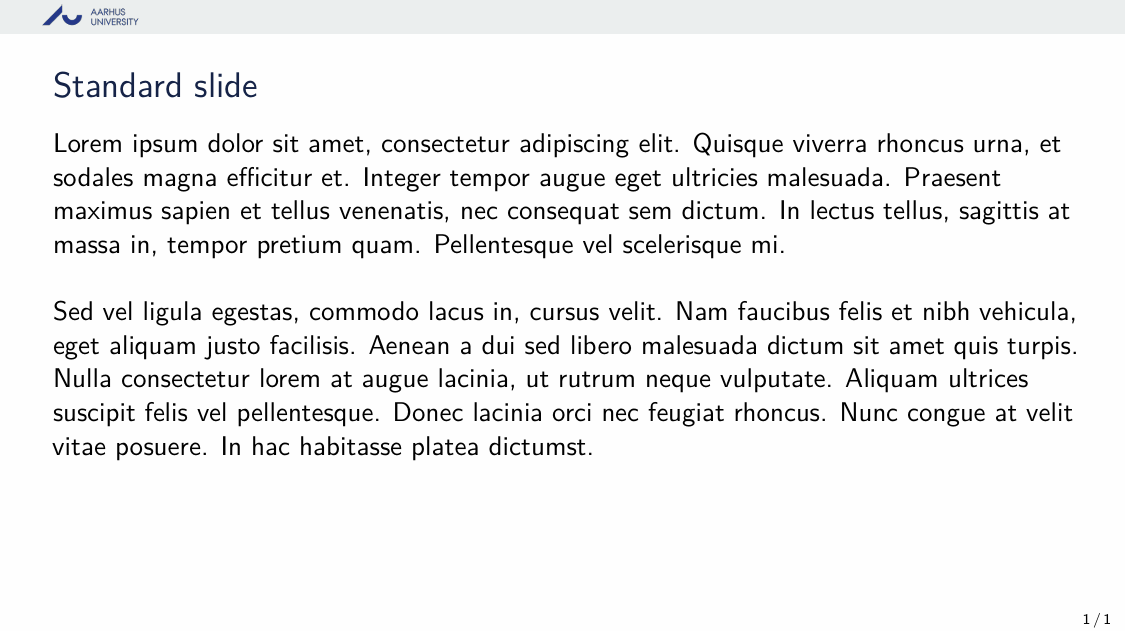
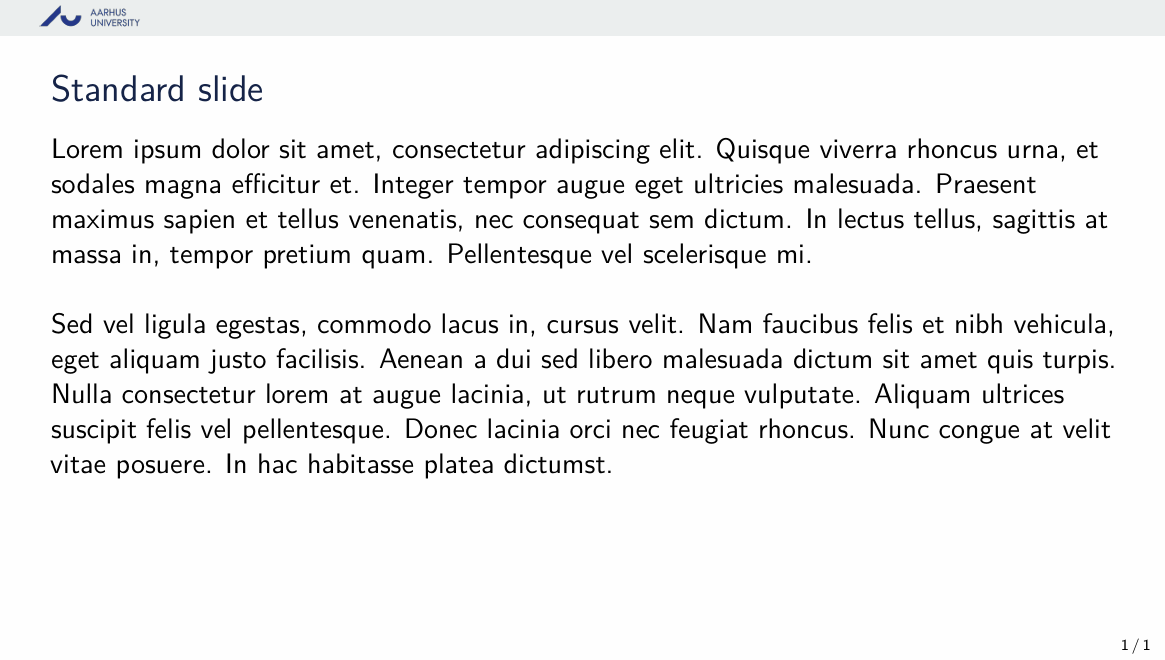
Watermark on front page partially transparent.

diff --git a/main.tex b/main.tex
@@ -2,6 +2,7 @@
 \documentclass[t,24pt,aspectratio=169]{beamer}
 
 \input{AUstyle} % <- this brings in your styles
+\usepackage{transparent}
 
 \setbeamertemplate{footline}[frame number]
 
@@ -10,6 +11,7 @@
 {
 \setbeamertemplate{background}{%
   \makebox[\paperwidth][r]{
+  \transparent{0.3} % Opacity of watermark. Value between 0 (fully transparent) and 1 (opaque).
   \includegraphics[height=\paperheight]{AU/forside-logo.png}}
 }
 \begin{frame}[plain,noframenumbering]
